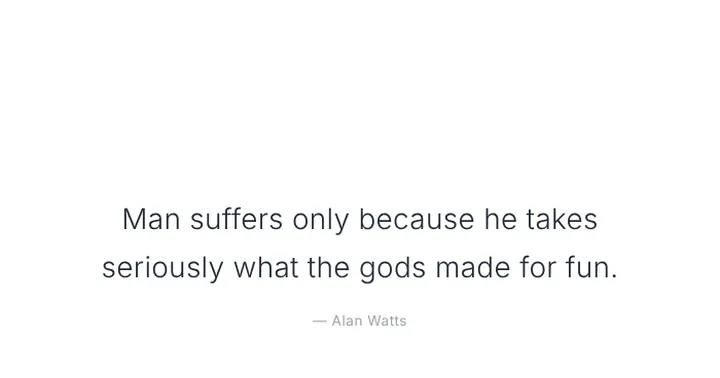
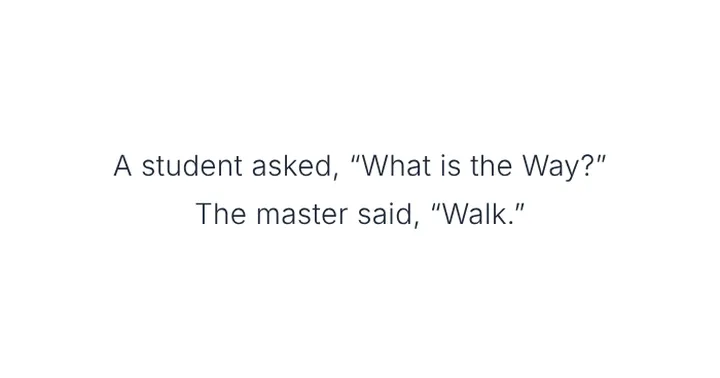
sinanLabs: nav label 'Labs'; move Thinking GIF and ParkSafe in; Reason Wide talk link
- Nav shows 'Labs' (header include + all noscript navs); page stays titled sinanLabs
- Move Thinking Trace GIF Generator (page + app.js/lib.js) to /artifacts/thinking-gif/;
  update tests and tool README; drop the Projects 'Tools' section
- Move ParkSafe page and spec to /artifacts/parksafe/; remove from Projects timeline;
  in-page links point to sinanLabs
- 301s for all moved paths in _redirects
- Reason Wide: '▶ Watch the talk' link to the Latent Space recording (rebuilt from src)
- New Zendo thumbnail (koan) and ParkSafe card + thumbnail

Claude-Session: https://claude.ai/code/session_01GuiKWFkpoQT5eCZZ9mgnZo

diff --git a/artifacts/reason-wide-demo.html b/artifacts/reason-wide-demo.html
@@ -607,7 +607,7 @@ function ResultsView() {
 function App() {
   const [tab, setTab] = useState("demo");
   const btnBase = { padding: "8px 20px", borderRadius: 6, fontSize: 14, fontWeight: 600, transition: "all 0.15s" };
-  return /* @__PURE__ */ React.createElement("div", { style: { minHeight: "100vh", padding: 24 } }, /* @__PURE__ */ React.createElement("div", { style: { maxWidth: 1024, margin: "0 auto 24px" } }, /* @__PURE__ */ React.createElement("div", { style: { display: "flex", alignItems: "baseline", gap: 12, marginBottom: 4, flexWrap: "wrap" } }, /* @__PURE__ */ React.createElement("h1", { style: { fontSize: 24, fontWeight: 700, letterSpacing: "-0.025em" } }, "Reason Wide, Not Deep"), /* @__PURE__ */ React.createElement("span", { style: { color: "#64748b", fontSize: 14 } }, "Singh et al. (Microsoft) \xB7 arXiv:2608.07885")), /* @__PURE__ */ React.createElement("p", { style: { color: "#94a3b8", fontSize: 14 } }, "Amortizing the reasoning premium into distilled skills \u2014 interactive companion")), /* @__PURE__ */ React.createElement("div", { style: { maxWidth: 1024, margin: "0 auto 20px" } }, /* @__PURE__ */ React.createElement("div", { style: { display: "flex", gap: 4, background: "#1e293b", borderRadius: 8, padding: 4, width: "fit-content" } }, /* @__PURE__ */ React.createElement("button", { onClick: () => setTab("demo"), style: {
+  return /* @__PURE__ */ React.createElement("div", { style: { minHeight: "100vh", padding: 24 } }, /* @__PURE__ */ React.createElement("div", { style: { maxWidth: 1024, margin: "0 auto 24px" } }, /* @__PURE__ */ React.createElement("div", { style: { display: "flex", alignItems: "baseline", gap: 12, marginBottom: 4, flexWrap: "wrap" } }, /* @__PURE__ */ React.createElement("h1", { style: { fontSize: 24, fontWeight: 700, letterSpacing: "-0.025em" } }, "Reason Wide, Not Deep"), /* @__PURE__ */ React.createElement("span", { style: { color: "#64748b", fontSize: 14 } }, "Singh et al. (Microsoft) \xB7 arXiv:2608.07885"), /* @__PURE__ */ React.createElement("a", { href: "https://www.youtube.com/watch?v=h1-2YfQCcBs", target: "_blank", rel: "noopener", style: { color: "#a5b4fc", fontSize: 14, fontWeight: 600, textDecoration: "none" } }, "\u25B6 Watch the talk")), /* @__PURE__ */ React.createElement("p", { style: { color: "#94a3b8", fontSize: 14 } }, "Amortizing the reasoning premium into distilled skills \u2014 interactive companion")), /* @__PURE__ */ React.createElement("div", { style: { maxWidth: 1024, margin: "0 auto 20px" } }, /* @__PURE__ */ React.createElement("div", { style: { display: "flex", gap: 4, background: "#1e293b", borderRadius: 8, padding: 4, width: "fit-content" } }, /* @__PURE__ */ React.createElement("button", { onClick: () => setTab("demo"), style: {
     ...btnBase,
     background: tab === "demo" ? "#4f46e5" : "transparent",
     color: tab === "demo" ? "#fff" : "#94a3b8"
@@ -615,7 +615,7 @@ function App() {
     ...btnBase,
     background: tab === "results" ? "#4f46e5" : "transparent",
     color: tab === "results" ? "#fff" : "#94a3b8"
-  } }, "Results"))), /* @__PURE__ */ React.createElement("div", { style: { maxWidth: 1024, margin: "0 auto" } }, tab === "demo" ? /* @__PURE__ */ React.createElement(DemoView, null) : /* @__PURE__ */ React.createElement(ResultsView, null)), /* @__PURE__ */ React.createElement("div", { style: { maxWidth: 1024, margin: "24px auto 0", textAlign: "center" } }, /* @__PURE__ */ React.createElement("p", { style: { color: "#475569", fontSize: 12 } }, "Representative illustration based on paper's reported results \xB7 Latent Space Paper Club \xB7 Sept 2026")));
+  } }, "Results"))), /* @__PURE__ */ React.createElement("div", { style: { maxWidth: 1024, margin: "0 auto" } }, tab === "demo" ? /* @__PURE__ */ React.createElement(DemoView, null) : /* @__PURE__ */ React.createElement(ResultsView, null)), /* @__PURE__ */ React.createElement("div", { style: { maxWidth: 1024, margin: "24px auto 0", textAlign: "center" } }, /* @__PURE__ */ React.createElement("p", { style: { color: "#475569", fontSize: 12 } }, "Representative illustration based on paper's reported results \xB7 ", /* @__PURE__ */ React.createElement("a", { href: "https://www.youtube.com/watch?v=h1-2YfQCcBs", target: "_blank", rel: "noopener", style: { color: "#94a3b8" } }, "Latent Space Paper Club talk"), " \xB7 Sept 2026")));
 }
 ReactDOM.createRoot(document.getElementById("root")).render(/* @__PURE__ */ React.createElement(App, null));
 </script>

diff --git a/artifacts/index.html b/artifacts/index.html
@@ -29,7 +29,7 @@
           <a href="/about.html" style="margin: 0 0.5rem;">About</a>
           <a href="/posts/" style="margin: 0 0.5rem;">Posts</a>
           <a href="/projects/" style="margin: 0 0.5rem;">Projects</a>
-          <a href="/artifacts/" style="margin: 0 0.5rem;">sinanLabs</a>
+          <a href="/artifacts/" style="margin: 0 0.5rem;">Labs</a>
           <a href="/contact.html" style="margin: 0 0.5rem;">Contact</a>
         </nav>
       </div>
@@ -57,15 +57,23 @@
     <div class="card-body">
       <p class="lab-meta">Sep 2026 · Paper demo</p>
       <h3>Reason Wide, Not Deep</h3>
-      <p>An interactive companion to Singh et al. (Microsoft, 2026) on distilling long reasoning into reusable skills. Made for the Latent Space Paper Club.</p>
+      <p>An interactive companion to Singh et al. (Microsoft, 2026) on distilling long reasoning into reusable skills. Made for the Latent Space Paper Club; the recorded talk is linked on the page.</p>
     </div>
   </a>
   <a class="card lab-card" href="/artifacts/zendo/">
-    <div class="thumb"><img src="/artifacts/thumbs/zendo.webp" alt="A single centered quote on a plain background" width="720" height="378" loading="lazy"></div>
+    <div class="thumb"><img src="/artifacts/thumbs/zendo.webp" alt="A short Zen koan centered on a plain background" width="720" height="378" loading="lazy"></div>
     <div class="card-body">
       <p class="lab-meta">Sep 2026 · Ambient screen</p>
       <h3>Zendo</h3>
       <p>A calm, rotating quote screen for a spare monitor. Inspired by Bodhi by Coastal Futurist.</p>
+    </div>
+  </a>
+  <a class="card lab-card" href="/artifacts/parksafe/">
+    <div class="thumb"><img src="/artifacts/thumbs/parksafe.webp" alt="ParkSafe prototype asking Can I park here right now? beside a street-cleaning sign" width="720" height="378" loading="lazy"></div>
+    <div class="card-body">
+      <p class="lab-meta">Aug 2026 · Course demo</p>
+      <h3>ParkSafe</h3>
+      <p>Paste the text of a parking sign, pick a time, and get a plain-language verdict. A prototype built for students in my UCLA course.</p>
     </div>
   </a>
   <a class="card lab-card" href="/artifacts/ai-biology-scale-atlas">
@@ -76,7 +84,7 @@
       <p>Nine research efforts, placed by the biological scale they work at and the AI method they use.</p>
     </div>
   </a>
-  <a class="card lab-card" href="/projects/thinking-gif/">
+  <a class="card lab-card" href="/artifacts/thinking-gif/">
     <div class="thumb"><img src="/artifacts/thumbs/thinking-gif.webp" alt="The GIF generator interface with a preview pane and editable steps" width="720" height="378" loading="lazy"></div>
     <div class="card-body">
       <p class="lab-meta">Dec 2025 · Tool</p>

diff --git a/artifacts/src/reason-wide-demo.jsx b/artifacts/src/reason-wide-demo.jsx
@@ -403,6 +403,7 @@ function App() {
         <div style={{ display: "flex", alignItems: "baseline", gap: 12, marginBottom: 4, flexWrap: "wrap" }}>
           <h1 style={{ fontSize: 24, fontWeight: 700, letterSpacing: "-0.025em" }}>Reason Wide, Not Deep</h1>
           <span style={{ color: "#64748b", fontSize: 14 }}>Singh et al. (Microsoft) · arXiv:2608.07885</span>
+          <a href="https://www.youtube.com/watch?v=h1-2YfQCcBs" target="_blank" rel="noopener" style={{ color: "#a5b4fc", fontSize: 14, fontWeight: 600, textDecoration: "none" }}>▶ Watch the talk</a>
         </div>
         <p style={{ color: "#94a3b8", fontSize: 14 }}>Amortizing the reasoning premium into distilled skills — interactive companion</p>
       </div>
@@ -422,7 +423,7 @@ function App() {
         {tab === "demo" ? <DemoView /> : <ResultsView />}
       </div>
       <div style={{ maxWidth: 1024, margin: "24px auto 0", textAlign: "center" }}>
-        <p style={{ color: "#475569", fontSize: 12 }}>Representative illustration based on paper's reported results · Latent Space Paper Club · Sept 2026</p>
+        <p style={{ color: "#475569", fontSize: 12 }}>Representative illustration based on paper's reported results · <a href="https://www.youtube.com/watch?v=h1-2YfQCcBs" target="_blank" rel="noopener" style={{ color: "#94a3b8" }}>Latent Space Paper Club talk</a> · Sept 2026</p>
       </div>
     </div>
   );

diff --git a/artifacts/parksafe/index.html b/artifacts/parksafe/index.html
@@ -15,13 +15,13 @@
   <a class="parksafe-skip" href="#checker">Skip to checker</a>
 
   <header class="parksafe-header">
-    <a class="parksafe-brand" href="/projects/parksafe/" aria-label="ParkSafe home">
+    <a class="parksafe-brand" href="/artifacts/parksafe/" aria-label="ParkSafe home">
       <span class="parksafe-brand__mark" aria-hidden="true">P</span>
       <span>ParkSafe</span>
     </a>
     <nav class="parksafe-nav" aria-label="ParkSafe navigation">
       <a href="#how-it-works">How it works</a>
-      <a class="parksafe-nav__portfolio" href="/projects/">Back to portfolio</a>
+      <a class="parksafe-nav__portfolio" href="/artifacts/">Back to sinanLabs</a>
     </nav>
   </header>
 
@@ -139,9 +139,9 @@ STREET CLEANING</textarea>
   </main>
 
   <footer class="parksafe-footer">
-    <a class="parksafe-brand" href="/projects/parksafe/"><span class="parksafe-brand__mark" aria-hidden="true">P</span><span>ParkSafe</span></a>
+    <a class="parksafe-brand" href="/artifacts/parksafe/"><span class="parksafe-brand__mark" aria-hidden="true">P</span><span>ParkSafe</span></a>
     <p>Guidance only—not legal advice. The posted sign always wins.</p>
-    <a href="/projects/">A prototype by Michael Sinanian ↗</a>
+    <a href="/artifacts/">A sinanLabs prototype by Michael Sinanian ↗</a>
   </footer>
 </body>
 </html>

diff --git a/artifacts/thinking-gif/index.html b/artifacts/thinking-gif/index.html
@@ -11,8 +11,8 @@
   <link rel="stylesheet" href="/assets/css/styles.css">
   <link rel="icon" type="image/svg+xml" href="/assets/img/favicon.svg">
   <script src="/assets/js/includes.js" defer></script>
-  <script src="/thinking-gif/lib.js" defer></script>
-  <script src="/thinking-gif/app.js" defer></script>
+  <script src="/artifacts/thinking-gif/lib.js" defer></script>
+  <script src="/artifacts/thinking-gif/app.js" defer></script>
 </head>
 <body>
   <a class="skip-link" href="#content">Skip to content</a>
@@ -25,7 +25,7 @@
           <a href="/about.html" style="margin: 0 0.5rem;">About</a>
           <a href="/posts/" style="margin: 0 0.5rem;">Posts</a>
           <a href="/projects/" style="margin: 0 0.5rem;">Projects</a>
-          <a href="/artifacts/" style="margin: 0 0.5rem;">sinanLabs</a>
+          <a href="/artifacts/" style="margin: 0 0.5rem;">Labs</a>
           <a href="/contact.html" style="margin: 0 0.5rem;">Contact</a>
         </nav>
       </div>

diff --git a/projects/index.html b/projects/index.html
@@ -24,7 +24,7 @@
           <a href="/about.html" style="margin: 0 0.5rem;">About</a>
           <a href="/posts/" style="margin: 0 0.5rem;">Posts</a>
           <a href="/projects/" style="margin: 0 0.5rem;">Projects</a>
-          <a href="/artifacts/" style="margin: 0 0.5rem;">sinanLabs</a>
+          <a href="/artifacts/" style="margin: 0 0.5rem;">Labs</a>
           <a href="/contact.html" style="margin: 0 0.5rem;">Contact</a>
         </nav>
       </div>
@@ -45,11 +45,6 @@
   <li><a href="/projects/prior.html">Prior Projects</a></li>
 </ul>
 
-<section class="prose">
-  <h2>Tools</h2>
-  <p>Interactive experiments and generators built alongside client and research work.</p>
-  <a class="row-link" href="/projects/thinking-gif/">Thinking Trace GIF Generator</a>
-</section>
 
 <section class="timeline-section">
   <div class="prose timeline-intro">

diff --git a/about.html b/about.html
@@ -24,7 +24,7 @@
           <a href="/about.html" style="margin: 0 0.5rem;">About</a>
           <a href="/posts/" style="margin: 0 0.5rem;">Posts</a>
           <a href="/projects/" style="margin: 0 0.5rem;">Projects</a>
-          <a href="/artifacts/" style="margin: 0 0.5rem;">sinanLabs</a>
+          <a href="/artifacts/" style="margin: 0 0.5rem;">Labs</a>
           <a href="/contact.html" style="margin: 0 0.5rem;">Contact</a>
         </nav>
       </div>

diff --git a/colophon.html b/colophon.html
@@ -23,7 +23,7 @@
           <a href="/about.html" style="margin: 0 0.5rem;">About</a>
           <a href="/posts/" style="margin: 0 0.5rem;">Posts</a>
           <a href="/projects/" style="margin: 0 0.5rem;">Projects</a>
-          <a href="/artifacts/" style="margin: 0 0.5rem;">sinanLabs</a>
+          <a href="/artifacts/" style="margin: 0 0.5rem;">Labs</a>
           <a href="/contact.html" style="margin: 0 0.5rem;">Contact</a>
         </nav>
       </div>

diff --git a/contact.html b/contact.html
@@ -24,7 +24,7 @@
           <a href="/about.html" style="margin: 0 0.5rem;">About</a>
           <a href="/posts/" style="margin: 0 0.5rem;">Posts</a>
           <a href="/projects/" style="margin: 0 0.5rem;">Projects</a>
-          <a href="/artifacts/" style="margin: 0 0.5rem;">sinanLabs</a>
+          <a href="/artifacts/" style="margin: 0 0.5rem;">Labs</a>
           <a href="/contact.html" style="margin: 0 0.5rem;">Contact</a>
         </nav>
       </div>

diff --git a/index.html b/index.html
@@ -46,7 +46,7 @@
           <a href="/about.html" style="margin: 0 0.5rem;">About</a>
           <a href="/posts/" style="margin: 0 0.5rem;">Posts</a>
           <a href="/projects/" style="margin: 0 0.5rem;">Projects</a>
-          <a href="/artifacts/" style="margin: 0 0.5rem;">sinanLabs</a>
+          <a href="/artifacts/" style="margin: 0 0.5rem;">Labs</a>
           <a href="/contact.html" style="margin: 0 0.5rem;">Contact</a>
         </nav>
       </div>

diff --git a/posts/index.html b/posts/index.html
@@ -24,7 +24,7 @@
           <a href="/about.html" style="margin: 0 0.5rem;">About</a>
           <a href="/posts/" style="margin: 0 0.5rem;">Posts</a>
           <a href="/projects/" style="margin: 0 0.5rem;">Projects</a>
-          <a href="/artifacts/" style="margin: 0 0.5rem;">sinanLabs</a>
+          <a href="/artifacts/" style="margin: 0 0.5rem;">Labs</a>
           <a href="/contact.html" style="margin: 0 0.5rem;">Contact</a>
         </nav>
       </div>

diff --git a/projects/ai-pm.html b/projects/ai-pm.html
@@ -24,7 +24,7 @@
           <a href="/about.html" style="margin: 0 0.5rem;">About</a>
           <a href="/posts/" style="margin: 0 0.5rem;">Posts</a>
           <a href="/projects/" style="margin: 0 0.5rem;">Projects</a>
-          <a href="/artifacts/" style="margin: 0 0.5rem;">sinanLabs</a>
+          <a href="/artifacts/" style="margin: 0 0.5rem;">Labs</a>
           <a href="/contact.html" style="margin: 0 0.5rem;">Contact</a>
         </nav>
       </div>
